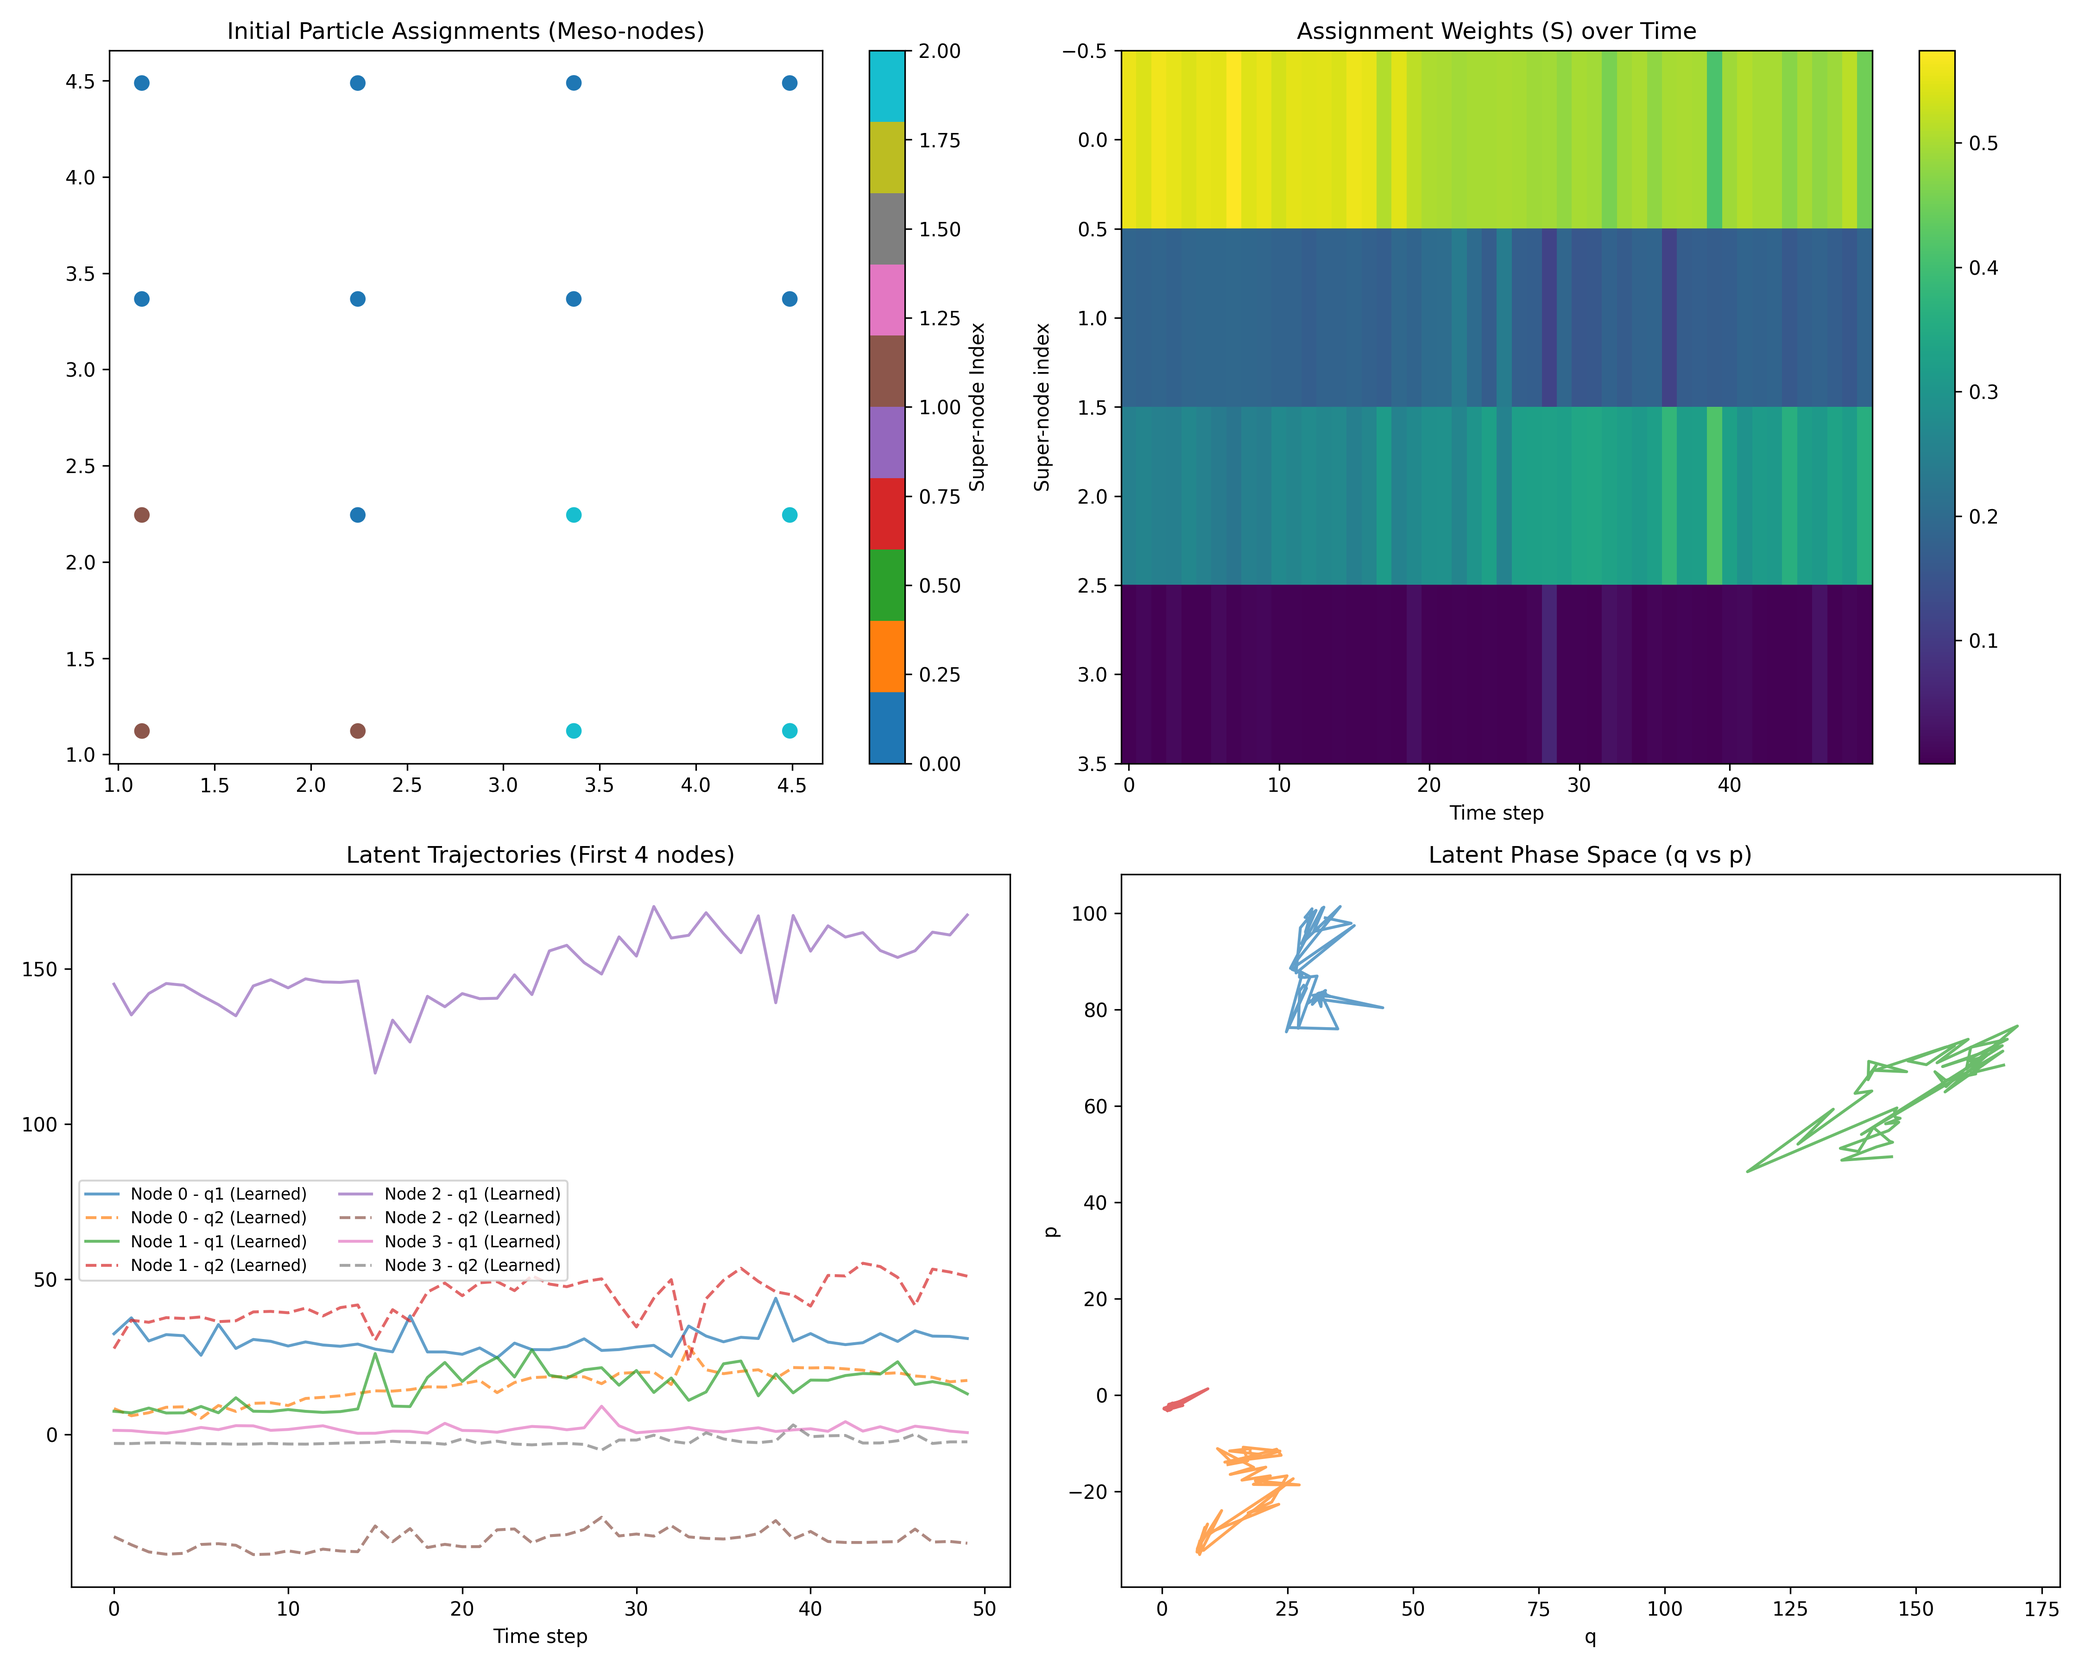
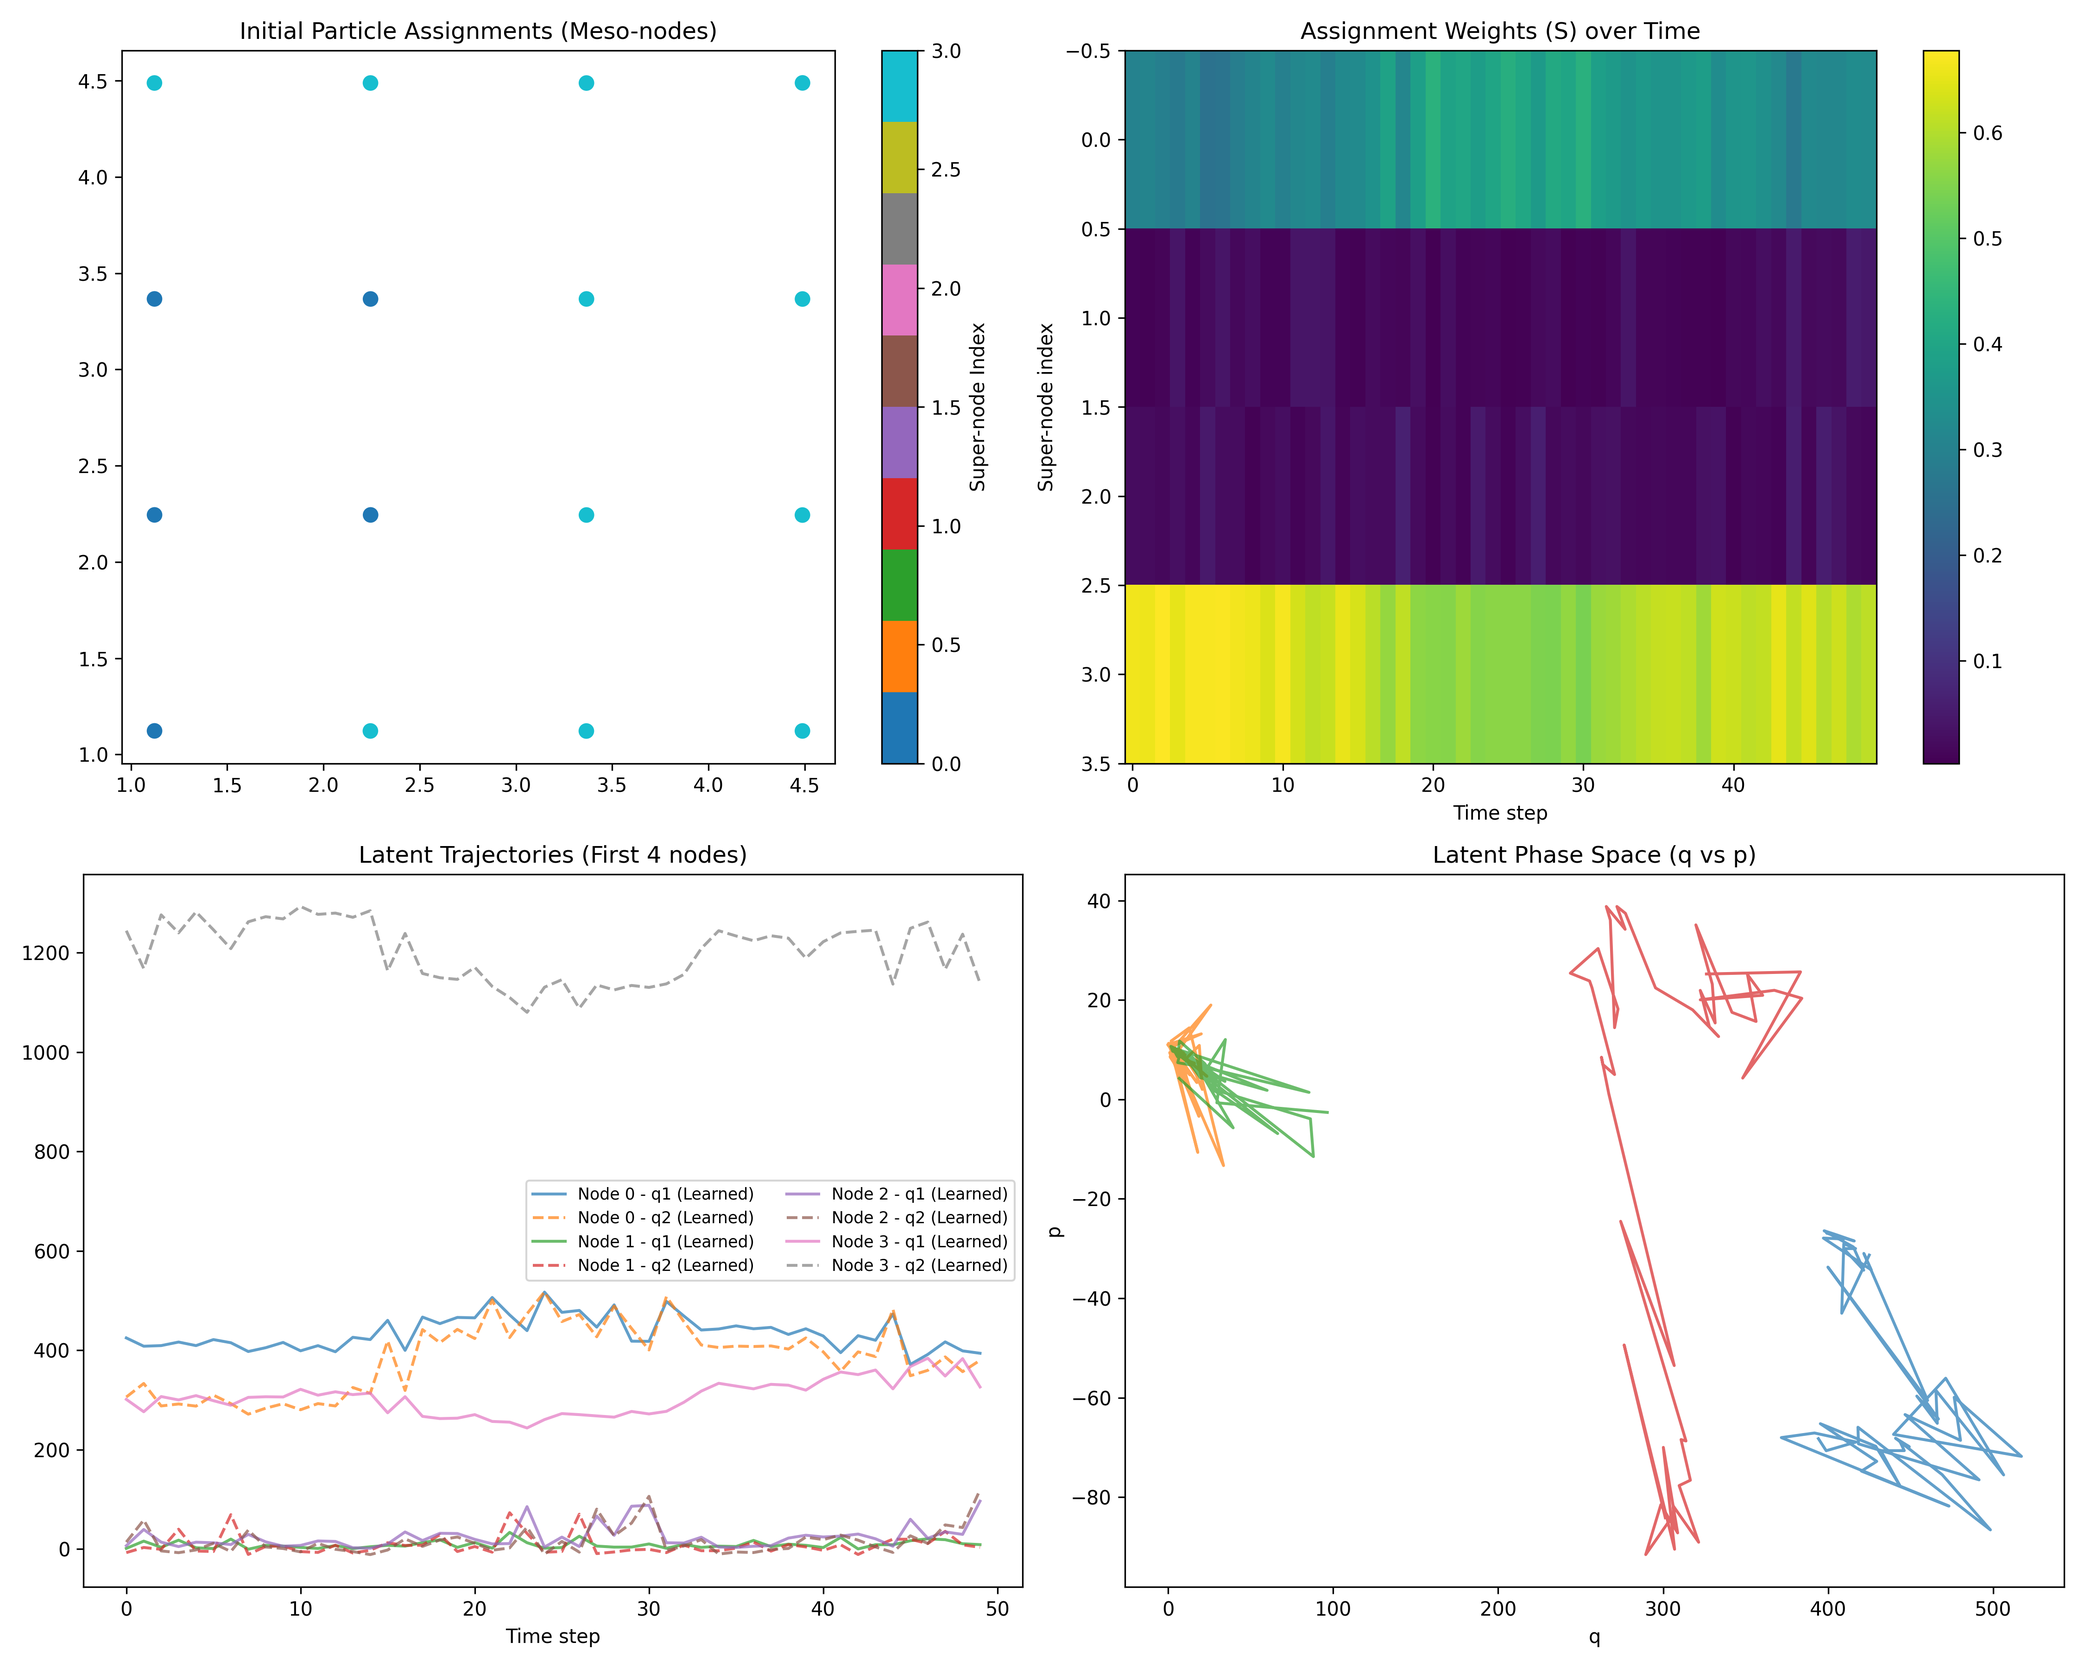
updated

diff --git a/engine.py b/engine.py
@@ -373,7 +373,8 @@ class Trainer:
         self.enhanced_balancer = enhanced_balancer
         
         # Learnable log-scaling for alignment to ensure it stays positive and stable
-        self.log_align_scale = torch.nn.Parameter(torch.tensor(0.0, device=device))
+        # Initialize to a value that brings the initial alignment loss below 1.0
+        self.log_align_scale = torch.nn.Parameter(torch.tensor(-2.0, device=device))  # exp(-2) ≈ 0.13
 
         # Manually re-balance initial log_vars for stability - PRIORITIZE RECONSTRUCTION
         with torch.no_grad():
@@ -654,14 +655,31 @@ class Trainer:
         loss_conn = 10.0 * self.model.get_connectivity_loss(s_0, batch_0.edge_index)
         loss_ortho = self.model.get_ortho_loss(s_0)
         loss_var = self.model.get_latent_variance_loss(z_curr)
-        
+
         # Hinge loss to prevent latent variable shrinkage (force them to have some minimum magnitude)
         # Calculates norm for each [Batch, K] and applies hinge at 0.1
         loss_hinge = torch.mean(torch.relu(0.1 - torch.norm(z_preds, dim=-1)))
-        
+
         loss_align = torch.tensor(0.0, device=self.device)
         loss_mi = torch.tensor(0.0, device=self.device)
         loss_cons = torch.tensor(0.0, device=self.device)
+
+        # NEW: Implement "Hard Gate" for Alignment - suppress alignment and MI losses during warmup
+        # and when reconstruction loss is too high
+        # Need to define raw_losses first with initial values before using it
+        raw_losses = {'rec': loss_rec, 'cons': loss_cons, 'assign': loss_assign, 'ortho': loss_ortho, 'l2': loss_l2, 'lvr': loss_lvr, 'align': loss_align, 'pruning': loss_pruning, 'sep': loss_sep, 'conn': loss_conn, 'sparsity': loss_sparsity, 'mi': loss_mi, 'sym': loss_sym, 'var': loss_var, 'hinge': loss_hinge, 'smooth': loss_smooth}
+
+        # NEW: Latent Activity penalty to prevent static latent trap
+        if len(z_vel) > 0:
+            # Change from log penalty to Hinge Loss: explicitly forces latents to move if velocity drops below threshold
+            loss_activity = torch.relu(0.5 - torch.norm(z_vel, dim=-1)).mean()  # Hinge loss with threshold 0.5
+            raw_losses['activity'] = loss_activity
+        else:
+            # Calculate activity penalty using the model's method if z_vel is empty
+            loss_activity = self.model.get_activity_penalty(z_preds)
+            raw_losses['activity'] = loss_activity
+
+        alignment_suppressed = epoch < self.warmup_epochs or raw_losses['rec'] > 0.1
 
         s_prev, mu_prev, z_enc_prev = s_0, mu_0, z_curr
         mu_min = torch.tensor(self.stats['pos_min'], device=self.device, dtype=torch.float32) if self.stats else 0
@@ -708,8 +726,14 @@ class Trainer:
                 align_weight = min(1.0, (epoch - 20) / self.align_anneal_epochs)
             
             # Use learnable scale in log-space for alignment
-            loss_align += 2.0 * align_weight * self.criterion(z_preds[t, :, :, :d_align] * torch.exp(self.log_align_scale), mu_t_norm[:, :, :d_align])
-            loss_mi += self.model.get_mi_loss(z_preds[t], mu_t_norm)
+            # NEW: Use HuberLoss instead of MSELoss to reduce sensitivity to outliers
+            huber_loss = torch.nn.SmoothL1Loss(beta=0.1)  # delta=0.1 equivalent to beta=0.1 in SmoothL1Loss
+            loss_align_component = huber_loss(z_preds[t, :, :, :d_align] * torch.exp(self.log_align_scale), mu_t_norm[:, :, :d_align])
+
+            # Apply hard gate: only add alignment and MI losses if not suppressed
+            if not alignment_suppressed:
+                loss_align += 2.0 * align_weight * loss_align_component
+                loss_mi += self.model.get_mi_loss(z_preds[t], mu_t_norm)
 
             if t > 0:
                 # Add a small weight to the consistency term between assignments and positions
@@ -740,21 +764,28 @@ class Trainer:
             # Force structural losses to stay active during stage 1
             lvars[11], lvars[3], lvars[12] = 0.0, 0.0, 0.0
 
-        raw_losses = {'rec': loss_rec, 'cons': loss_cons, 'assign': loss_assign, 'ortho': loss_ortho, 'l2': loss_l2, 'lvr': loss_lvr, 'align': loss_align, 'pruning': loss_pruning, 'sep': loss_sep, 'conn': loss_conn, 'sparsity': loss_sparsity, 'mi': loss_mi, 'sym': loss_sym, 'var': loss_var, 'hinge': loss_hinge, 'smooth': loss_smooth}
-
-        # NEW: Latent Activity penalty to prevent static latent trap
-        if len(z_vel) > 0:
-            # Change from log penalty to Hinge Loss: explicitly forces latents to move if velocity drops below threshold
-            loss_activity = torch.relu(0.5 - torch.norm(z_vel, dim=-1)).mean()  # Hinge loss with threshold 0.5
-            raw_losses['activity'] = loss_activity
-        else:
-            # Calculate activity penalty using the model's method if z_vel is empty
-            loss_activity = self.model.get_activity_penalty(z_preds)
-            raw_losses['activity'] = loss_activity
-
         # Ensure all raw losses are float32 for stable balancing, especially on MPS
         for k in raw_losses:
             raw_losses[k] = raw_losses[k].to(torch.float32)
+
+        # Additionally, ensure all loss components are float32 before being used in calculations
+        loss_rec = loss_rec.to(torch.float32)
+        loss_cons = loss_cons.to(torch.float32)
+        loss_assign = loss_assign.to(torch.float32)
+        loss_ortho = loss_ortho.to(torch.float32)
+        loss_l2 = loss_l2.to(torch.float32)
+        loss_lvr = loss_lvr.to(torch.float32)
+        loss_align = loss_align.to(torch.float32)
+        loss_mi = loss_mi.to(torch.float32)
+        loss_pruning = loss_pruning.to(torch.float32)
+        loss_sparsity = loss_sparsity.to(torch.float32)
+        loss_sep = loss_sep.to(torch.float32)
+        loss_conn = loss_conn.to(torch.float32)
+        loss_sym = loss_sym.to(torch.float32)
+        loss_var = loss_var.to(torch.float32)
+        loss_hinge = loss_hinge.to(torch.float32)
+        loss_smooth = loss_smooth.to(torch.float32)
+        loss_activity = loss_activity.to(torch.float32)
 
         # Create weights for losses that have corresponding log_vars entries (first 16)
         base_keys = list(raw_losses.keys())[:16]  # Only first 16 keys that correspond to lvars
@@ -786,10 +817,10 @@ class Trainer:
                 weights['ortho'] = max(weights['ortho'], torch.exp(-self.model.log_vars[3]).item())
                 weights['sparsity'] = max(weights['sparsity'], torch.exp(-self.model.log_vars[11]).item())
 
-        # Dynamics warmup: Gradually introduce dynamics losses over 100 epochs after warmup
-        dynamics_factor = 1.0
+        # Dynamics warmup: Gradually introduce dynamics losses over 200 epochs after warmup
+        dynamics_factor = 0.0  # Start at 0.0 during warmup
         if epoch > self.warmup_epochs:
-            dynamics_factor = min(1.0, (epoch - self.warmup_epochs) / 100.0)
+            dynamics_factor = min(1.0, (epoch - self.warmup_epochs) / 200.0)  # Ramp over 200 epochs
 
         discovery_loss = sum(weights[k] * torch.clamp(raw_losses[k], -100, 100) + (lvars[i] if i < len(lvars) else 0.0) for i, k in enumerate(raw_losses.keys()) if k not in ['cons', 'l2', 'lvr'])
         discovery_loss += (weights['sym'] * (self.symbolic_weight - 1.0) * torch.clamp(loss_sym.to(torch.float32), 0, 100) * dynamics_factor) # Adjust sym weight with dynamics factor
@@ -801,11 +832,12 @@ class Trainer:
         # Add smoothing loss to the total loss - INCREASED WEIGHT FOR DAMPING
         smooth_idx = list(raw_losses.keys()).index('smooth')  # This should be 15
         if smooth_idx < len(lvars):  # Make sure the index exists
-            loss += (weights['smooth'] * 100.0 * torch.clamp(loss_smooth, 0, 100) + lvars[smooth_idx])  # Increased from 20.0 to 100.0
+            loss += (weights['smooth'] * 500.0 * torch.clamp(loss_smooth, 0, 100) + lvars[smooth_idx])  # Increased from 100.0 to 500.0
         else:
-            loss += weights['smooth'] * 100.0 * torch.clamp(loss_smooth, 0, 100)  # Just apply weight without log_var - INCREASED to 100.0
+            loss += weights['smooth'] * 500.0 * torch.clamp(loss_smooth, 0, 100)  # Just apply weight without log_var - INCREASED to 500.0
         
         loss = torch.clamp(loss + 0.1 * torch.sum(lvars**2), 0, 1e4)
+        loss = loss.to(torch.float32)  # Ensure final loss is float32 for MPS stability
         if not torch.isfinite(loss): loss = loss_rec if torch.isfinite(loss_rec) else torch.tensor(1.0, device=self.device, requires_grad=True)
 
         if self.enable_gradient_accumulation:
@@ -837,7 +869,7 @@ class Trainer:
 
             self.optimizer.step()
 
-        self.loss_tracker.update({'total': loss, 'rec_raw': loss_rec, 'cons_raw': loss_cons, 'assign': loss_assign, 'align': loss_align, 'mi': loss_mi, 'sym': loss_sym, 'lvar_raw': loss_var, 'curv_raw': loss_curv, 'hinge_raw': loss_hinge, 'smooth_raw': loss_smooth, 'lvars_mean': lvars.mean()}, weights=weights)
+        self.loss_tracker.update({'total': loss.to(torch.float32), 'rec_raw': loss_rec, 'cons_raw': loss_cons, 'assign': loss_assign, 'align': loss_align, 'mi': loss_mi, 'sym': loss_sym, 'lvar_raw': loss_var, 'curv_raw': loss_curv, 'hinge_raw': loss_hinge, 'smooth_raw': loss_smooth, 'lvars_mean': lvars.mean()}, weights=weights)
         
         if epoch % 100 == 0:
             print(f"  [Loss Detail] Rec: {loss_rec:.4f} | Cons: {loss_cons:.4f} | Assign: {loss_assign:.4f} | Ortho: {loss_ortho:.4f} | Align: {loss_align:.4f} | Sym: {loss_sym:.4f}")

diff --git a/model.py b/model.py
@@ -247,8 +247,8 @@ class GNNEncoder(nn.Module):
         # Initialize weights using Xavier uniform
         self._initialize_weights()
 
-        # Add a learnable gain parameter to prevent vanishing latents - INCREASED FROM 1.0 TO 2.0
-        self.latent_gain = nn.Parameter(torch.ones(latent_dim) * 2.0)
+        # Add a learnable gain parameter to prevent vanishing latents - INCREASED FROM 2.0 TO 5.0
+        self.latent_gain = nn.Parameter(torch.ones(latent_dim) * 5.0)
 
         # Initialize output layer with higher variance to promote activity
         nn.init.normal_(self.output_layer[-1].weight, mean=0.0, std=2.0)
@@ -350,14 +350,19 @@ class HamiltonianODEFunc(nn.Module):
         self.n_super_nodes = n_super_nodes
         self.dissipative = dissipative
 
-        # Further simplified and faster Hamiltonian network
+        # ENHANCED: Increased capacity for Hamiltonian network - use full hidden_dim instead of fractions
         self.H_net = nn.Sequential(
-            nn.Linear(latent_dim * n_super_nodes, hidden_dim//4),  # Further reduced hidden size
+            nn.Linear(latent_dim * n_super_nodes, hidden_dim),  # Full hidden size instead of hidden_dim//4
             nn.SiLU(), # Faster activation function
-            nn.Linear(hidden_dim//4, hidden_dim//8),  # Additional hidden layer
+            nn.Linear(hidden_dim, hidden_dim),  # Full hidden size instead of hidden_dim//8
+            nn.SiLU(), # Additional activation
+            nn.Linear(hidden_dim, hidden_dim//2),  # Additional layer
             nn.Tanh(),  # Add Tanh activation to bound the Hamiltonian's energy and prevent runaway momentum
-            nn.Linear(hidden_dim//8, 1)
+            nn.Linear(hidden_dim//2, 1)
         )
+
+        # Add LayerNorm at the input to stabilize gradients
+        self.input_norm = nn.LayerNorm(latent_dim * n_super_nodes)
 
         if dissipative:
             # Small initial dissipation
@@ -380,12 +385,14 @@ class HamiltonianODEFunc(nn.Module):
         # We need to compute dH/dy. We use autograd.grad.
         # create_graph=True is necessary for backpropagating through the ODE solver (especially for adjoint)
         with torch.set_grad_enabled(True):
-            y_in = y.detach().requires_grad_(True)
+            # Apply input normalization to stabilize gradients
+            y_norm = self.input_norm(y)
+            y_in = y_norm.detach().requires_grad_(True)
             H_raw = self.H_net(y_in)
             # Add small L2 regularization on the output to prevent scaling to infinity
             H = H_raw.sum() + 0.01 * torch.sum(H_raw**2)
             dH = torch.autograd.grad(H, y_in, create_graph=True, allow_unused=True)[0]
-            
+
             if dH is None:
                 dH = torch.zeros_like(y_in)
             else:

diff --git a/stable_pooling.py b/stable_pooling.py
@@ -116,8 +116,8 @@ class StableHierarchicalPooling(nn.Module):
 
         # NEW: Assignment Persistence - bias logits by previous assignments to stabilize flickering
         if prev_assignments is not None and prev_assignments.size(0) == x.size(0):
-            # persistence_gain = 5.0 to strongly favor previous identity
-            logits = logits + 5.0 * prev_assignments.detach()
+            # persistence_gain = 10.0 to strongly favor previous identity - INCREASED FROM 5.0 TO 10.0
+            logits = logits + 10.0 * prev_assignments.detach()
 
         # Apply active_mask to logits (soft mask to allow for revival)
         # Use detach() to prevent inplace modification errors during backward pass
@@ -157,8 +157,8 @@ class StableHierarchicalPooling(nn.Module):
             revival_mask = (torch.rand_like(self.active_mask) < 0.2).float() * revival_candidate # Increased prob from 0.1
             effective_active = torch.clamp(current_active + revival_mask, 0, 1)
 
-            # Use a much slower EMA for smoothness as requested - REDUCED FROM 0.00001 TO 0.000001
-            ema_rate = 0.000001 # Decreased from 0.00001 to 0.000001 for much slower pruning
+            # Use a much faster EMA for quicker adaptation as requested - INCREASED FROM 0.000001 TO 0.01
+            ema_rate = 0.01 # Increased from 0.000001 to 0.01 for faster mask adaptation
             if hard:
                 ema_rate *= 0.5 # Even slower updates during hard sampling
 
